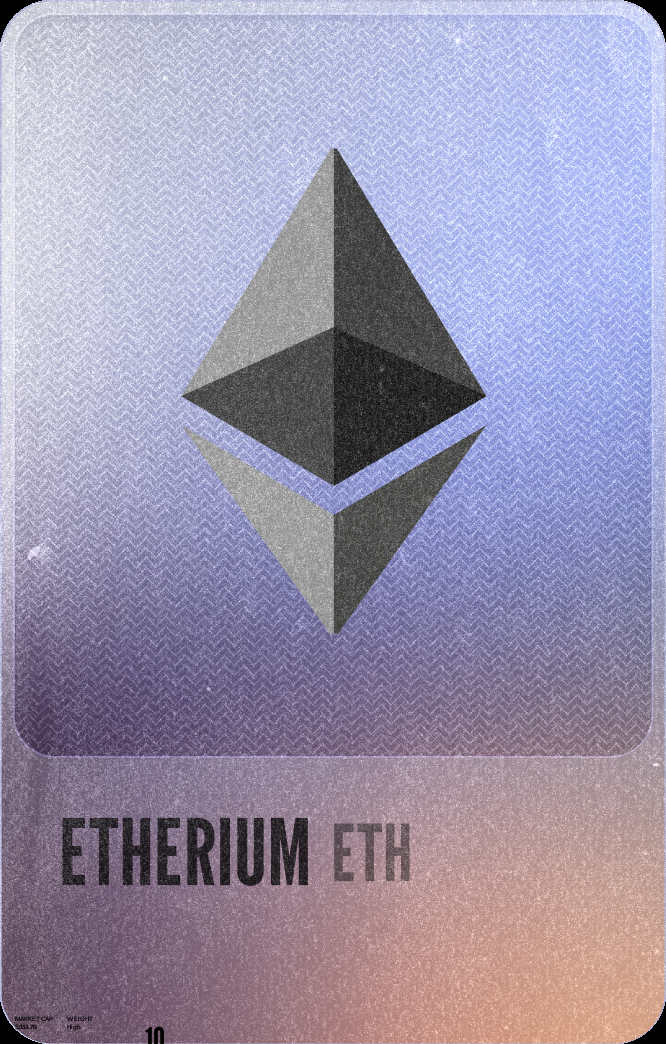
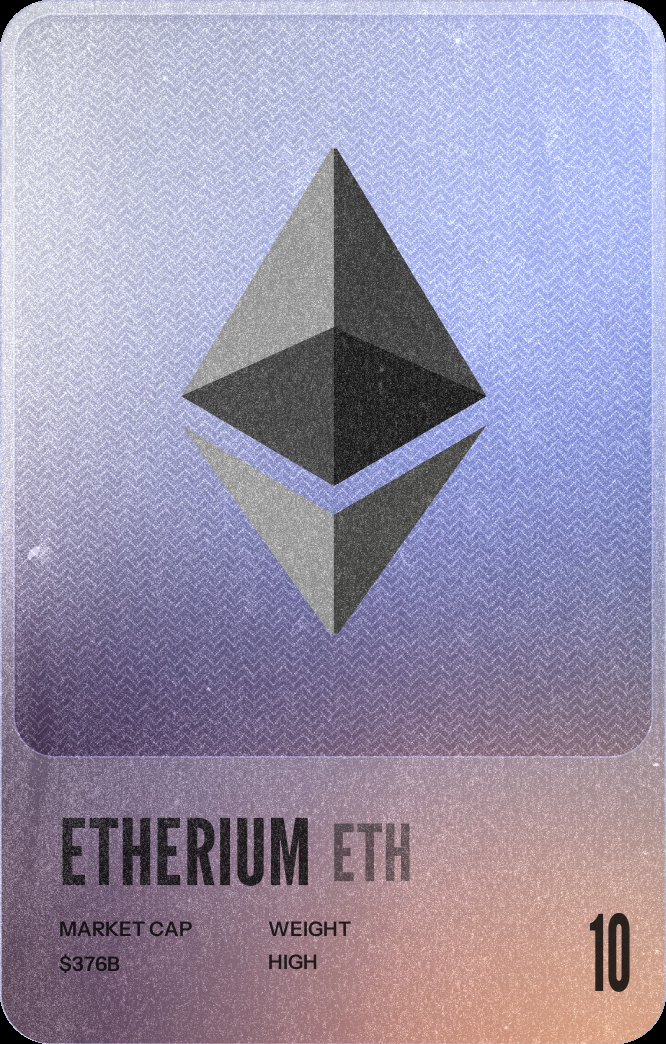
finalize card render service

diff --git a/services/card_render_service.py b/services/card_render_service.py
@@ -20,74 +20,116 @@ class CardRenderService:
     RENDERS_DIR = "/app/static/card_renders"
     FONTS_DIR = "/app/static/fonts"
     
-    # Card dimensions
+    # Card dimensions (4x scale from Figma)
     CARD_WIDTH = 666
     CARD_HEIGHT = 1044
     
     # Font paths
-    FONT_INSTRUMENT_SANS = os.path.join(FONTS_DIR, "InstrumentSans-SemiBold.ttf")
+    FONT_INSTRUMENT_SANS_SEMIBOLD = os.path.join(FONTS_DIR, "InstrumentSans-SemiBold.ttf")
     FONT_LEAGUE_GOTHIC = os.path.join(FONTS_DIR, "LeagueGothic-Regular.ttf")
+    FONT_LEAGUE_GOTHIC_CONDENSED = os.path.join(FONTS_DIR, "LeagueGothic-Condensed.ttf")
     
-    # Text color (black 80%)
-    TEXT_COLOR = (0, 0, 0, 204)  # RGBA
-    
+    # Text opacity
+    TEXT_OPACITY = 0.8  # 80%
+
     def __init__(self):
-        # Ensure directories exist
         os.makedirs(self.RENDERS_DIR, exist_ok=True)
-        
+
     def _get_weight_text(self, weight: int) -> str:
         """Convert weight number to text: Low/Medium/High"""
         if weight in [8, 9, 10]:
-            return "High"
+            return "HIGH"
         elif weight in [4, 5, 6, 7]:
-            return "Medium"
+            return "MEDIUM"
         elif weight in [1, 2, 3]:
-            return "Low"
+            return "LOW"
         else:
-            return "Medium"  # Default
-    
+            return "MEDIUM"
+
     def _format_market_cap(self, market_cap: Optional[int]) -> str:
-        """
-        Format market cap to readable string: $353.0B
-        Always rounds to 1 decimal place.
-        """
+        """Format market cap to readable string: $353B (without decimals)"""
         if not market_cap or market_cap == 0:
-            return "$0.0"
+            return "$0"
         
-        # Billions
         if market_cap >= 1_000_000_000:
             value = market_cap / 1_000_000_000
-            return f"${value:.1f}B"
-        
-        # Millions
+            return f"${int(round(value))}B"  # Округляем до целого
         elif market_cap >= 1_000_000:
             value = market_cap / 1_000_000
-            return f"${value:.1f}M"
-        
-        # Thousands
+            return f"${int(round(value))}M"
         elif market_cap >= 1_000:
             value = market_cap / 1_000
-            return f"${value:.1f}K"
-        
+            return f"${int(round(value))}K"
         else:
-            return f"${market_cap:.1f}"
-    
+            return f"${int(market_cap)}"
+
     def _load_fonts(self):
-        """Load fonts for rendering"""
+        """Load fonts with exact Figma specifications"""
         try:
-            # Small font for labels (4.9pt ≈ 6.5px at 96 DPI)
-            font_small = ImageFont.truetype(self.FONT_INSTRUMENT_SANS, size=int(4.9 * 1.33))
+            # Все мелкие тексты: Instrument Sans Semibold, 19.6px (~20px)
+            font_small = ImageFont.truetype(self.FONT_INSTRUMENT_SANS_SEMIBOLD, size=20)
             
-            # Large font for weight number (26.13pt ≈ 35px at 96 DPI)
-            font_large = ImageFont.truetype(self.FONT_LEAGUE_GOTHIC, size=int(26.13 * 1.33))
+            # Большое число: пробуем сначала Condensed версию, если нет - обычную
+            if os.path.exists(self.FONT_LEAGUE_GOTHIC_CONDENSED):
+                font_large = ImageFont.truetype(self.FONT_LEAGUE_GOTHIC_CONDENSED, size=105)
+            else:
+                # Если Condensed нет, берём обычную, но будем сжимать
+                font_large = ImageFont.truetype(self.FONT_LEAGUE_GOTHIC, size=105)
             
             return font_small, font_large
-        
+            
         except Exception as e:
             logger.error(f"Failed to load fonts: {e}")
-            # Fallback to default font
-            return ImageFont.load_default(), ImageFont.load_default()
-    
+            default = ImageFont.load_default()
+            return default, default
+
+    def _draw_condensed_number(self, draw, text, position, font, fill, anchor="lb", squeeze_factor=0.75):
+        """
+        Рисует число с эффектом сжатия по горизонтали (condensed).
+        
+        Args:
+            draw: ImageDraw object
+            text: текст для отрисовки
+            position: (x, y) координаты
+            font: шрифт
+            fill: цвет
+            anchor: тип якоря
+            squeeze_factor: коэффициент сжатия (0.75 = 75% ширины, более узкий)
+        """
+        # Создаём временный слой для числа
+        bbox = draw.textbbox((0, 0), text, font=font, anchor="lt")
+        text_width = bbox[2] - bbox[0]
+        text_height = bbox[3] - bbox[1]
+        
+        # Добавляем padding
+        temp_size = (int(text_width * 1.5), int(text_height * 1.5))
+        temp_layer = Image.new('RGBA', temp_size, (255, 255, 255, 0))
+        temp_draw = ImageDraw.Draw(temp_layer)
+        
+        # Рисуем текст на временном слое
+        temp_draw.text(
+            (text_width // 4, text_height // 4),
+            text,
+            font=font,
+            fill=fill,
+            anchor="lt"
+        )
+        
+        # Сжимаем по горизонтали
+        new_width = int(temp_size[0] * squeeze_factor)
+        condensed = temp_layer.resize((new_width, temp_size[1]), Image.Resampling.LANCZOS)
+        
+        # Вычисляем позицию для вставки
+        x, y = position
+        if anchor == "lb":  # left-baseline
+            paste_x = int(x)
+            paste_y = int(y - temp_size[1] + text_height // 4)
+        else:
+            paste_x = int(x)
+            paste_y = int(y)
+        
+        return condensed, (paste_x, paste_y)
+
     def render_card(
         self,
         template_path: str,
@@ -98,25 +140,24 @@ class CardRenderService:
         """
         Render a card by overlaying text on template image.
         
-        Args:
-            template_path: Path to template image
-            output_path: Path to save rendered image
-            market_cap: Market cap value (in dollars)
-            weight: Token weight (1-10)
-        
-        Returns:
-            True if successful, False otherwise
+        Coordinates based on Figma 4x export (666 × 1044):
+        - "MARKET CAP": left 59px, bottom 101px
+        - Market cap value: left 59px, bottom 68px (rounded to integer)
+        - "WEIGHT": left 268px, bottom 101px
+        - Weight text (HIGH/MEDIUM/LOW): left 268px, bottom 68px
+        - Weight number (large): left 578px, bottom 52px (condensed)
+        All text: 80% opacity
         """
         try:
-            # Load template image
             if not os.path.exists(template_path):
                 logger.error(f"Template not found: {template_path}")
                 return False
             
             img = Image.open(template_path).convert("RGBA")
             
-            # Create drawing context
-            draw = ImageDraw.Draw(img)
+            # Создаём отдельный прозрачный слой для текста
+            text_layer = Image.new('RGBA', img.size, (255, 255, 255, 0))
+            draw = ImageDraw.Draw(text_layer)
             
             # Load fonts
             font_small, font_large = self._load_fonts()
@@ -126,89 +167,96 @@ class CardRenderService:
             weight_text = self._get_weight_text(weight)
             weight_number = str(weight)
             
-            # Calculate positions (from bottom)
-            # "MARKET CAP" label
+            # === MARKET CAP LABEL ===
             draw.text(
-                (14.7, self.CARD_HEIGHT - 22.74),
+                (59, self.CARD_HEIGHT - 101 - 22),
                 "MARKET CAP",
                 font=font_small,
-                fill=self.TEXT_COLOR,
-                anchor="ls"  # left-baseline
+                fill=(0, 0, 0, 255),
+                anchor="lt"
             )
             
-            # Market cap value
+            # === MARKET CAP VALUE ===
             draw.text(
-                (14.7, self.CARD_HEIGHT - 14.57),
+                (59, self.CARD_HEIGHT - 68 - 22),
                 market_cap_text,
                 font=font_small,
-                fill=self.TEXT_COLOR,
-                anchor="ls"
+                fill=(0, 0, 0, 255),
+                anchor="lt"
             )
             
-            # "WEIGHT" label
+            # === WEIGHT LABEL ===
             draw.text(
-                (66.96, self.CARD_HEIGHT - 22.74),
+                (268, self.CARD_HEIGHT - 101 - 22),
                 "WEIGHT",
                 font=font_small,
-                fill=self.TEXT_COLOR,
-                anchor="ls"
+                fill=(0, 0, 0, 255),
+                anchor="lt"
             )
             
-            # Weight text (Low/Medium/High)
+            # === WEIGHT TEXT (HIGH/MEDIUM/LOW) ===
             draw.text(
-                (66.55, self.CARD_HEIGHT - 15.39),
+                (268, self.CARD_HEIGHT - 68 - 22),
                 weight_text,
                 font=font_small,
-                fill=self.TEXT_COLOR,
-                anchor="ls"
+                fill=(0, 0, 0, 255),
+                anchor="lt"
             )
             
-            # Weight number (big)
-            draw.text(
-                (144.61, self.CARD_HEIGHT - 17.65),
+            # === WEIGHT NUMBER (большое, condensed) ===
+            # Создаём сжатое число на отдельном слое
+            number_layer, number_pos = self._draw_condensed_number(
+                draw,
                 weight_number,
-                font=font_large,
-                fill=self.TEXT_COLOR,
-                anchor="lt"  # left-top
+                (578, self.CARD_HEIGHT - 52),
+                font_large,
+                (0, 0, 0, 255),
+                anchor="lb",
+                squeeze_factor=0.70  # Сжимаем до 70% ширины
             )
+            
+            # Применяем 80% прозрачность ко всему текстовому слою
+            alpha = text_layer.split()[3]
+            alpha = alpha.point(lambda p: int(p * self.TEXT_OPACITY))
+            text_layer.putalpha(alpha)
+            
+            # Накладываем текст на основное изображение
+            img = Image.alpha_composite(img, text_layer)
+            
+            # Накладываем сжатое число (оно уже отдельно)
+            number_alpha = number_layer.split()[3]
+            number_alpha = number_alpha.point(lambda p: int(p * self.TEXT_OPACITY))
+            number_layer.putalpha(number_alpha)
+            
+            img.paste(number_layer, number_pos, number_layer)
             
             # Save rendered image
             img.convert("RGB").save(output_path, "PNG", quality=95)
-            
             logger.info(f"✅ Card rendered: {os.path.basename(output_path)}")
+            
             return True
             
         except Exception as e:
             logger.error(f"❌ Failed to render card: {e}", exc_info=True)
             return False
-    
+
     async def render_card_by_id(self, card_id: int) -> Optional[str]:
-        """
-        Render a card by its database ID.
-        
-        Args:
-            card_id: Card database ID
-        
-        Returns:
-            URL of rendered image if successful, None otherwise
-        """
+        """Render a card by its database ID"""
         try:
             async with DatabaseSession() as db:
-                # Fetch card with token
                 result = await db.execute(
                     select(Card, Token)
                     .join(Token, Card.token_id == Token.id)
                     .where(Card.id == card_id)
                 )
-                
                 row = result.first()
+                
                 if not row:
                     logger.error(f"Card {card_id} not found")
                     return None
                 
                 card, token = row
                 
-                # Fetch latest price separately
                 price_result = await db.execute(
                     select(TokenPrice)
                     .where(TokenPrice.token_id == token.id)
@@ -217,15 +265,12 @@ class CardRenderService:
                 )
                 price = price_result.scalar_one_or_none()
                 
-                # Extract template filename from URL
                 template_filename = card.template_image_url.split('/')[-1]
                 template_path = os.path.join(self.TEMPLATES_DIR, template_filename)
                 
-                # Generate output filename
                 output_filename = f"card_{card.id}.png"
                 output_path = os.path.join(self.RENDERS_DIR, output_filename)
                 
-                # Render card
                 success = self.render_card(
                     template_path=template_path,
                     output_path=output_path,
@@ -236,35 +281,26 @@ class CardRenderService:
                 if not success:
                     return None
                 
-                # Generate URL
                 base_url = os.getenv("STATIC_BASE_URL", "http://localhost:8080")
                 rendered_url = f"{base_url}/static/card_renders/{output_filename}"
                 
-                # Update card in database
                 card.rendered_image_url = rendered_url
                 card.last_rendered_at = datetime.utcnow()
                 await db.commit()
                 
-                logger.info(f"✅ Card {card_id} rendered and updated in DB")
+                logger.info(f"✅ Card {card_id} rendered: {rendered_url}")
                 return rendered_url
                 
         except Exception as e:
             logger.error(f"❌ Failed to render card {card_id}: {e}", exc_info=True)
             return None
-    
+
     async def render_all_active_cards(self) -> dict:
-        """
-        Render all active cards.
-        
-        Returns:
-            Dict with success/failure counts
-        """
+        """Render all active cards"""
         try:
             async with DatabaseSession() as db:
-                # Get all active cards
                 result = await db.execute(
-                    select(Card.id)
-                    .where(Card.is_active == True)
+                    select(Card.id).where(Card.is_active == True)
                 )
                 card_ids = [row[0] for row in result.all()]
             
@@ -280,7 +316,7 @@ class CardRenderService:
                 else:
                     failed_count += 1
             
-            logger.info(f"✅ Rendering complete: {success_count} success, {failed_count} failed")
+            logger.info(f"✅ Complete: {success_count} success, {failed_count} failed")
             
             return {
                 "total": len(card_ids),
